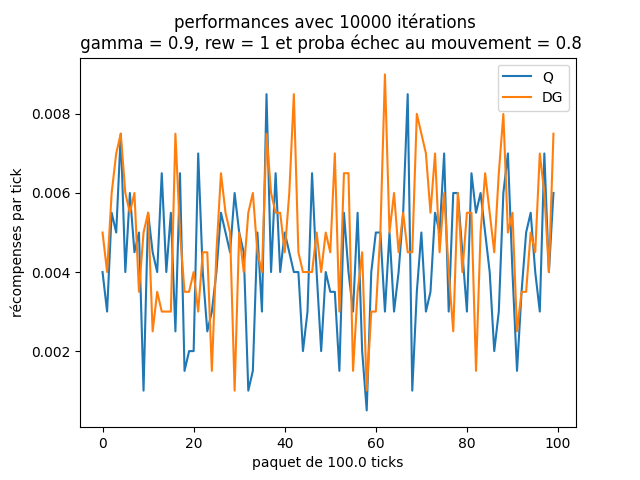
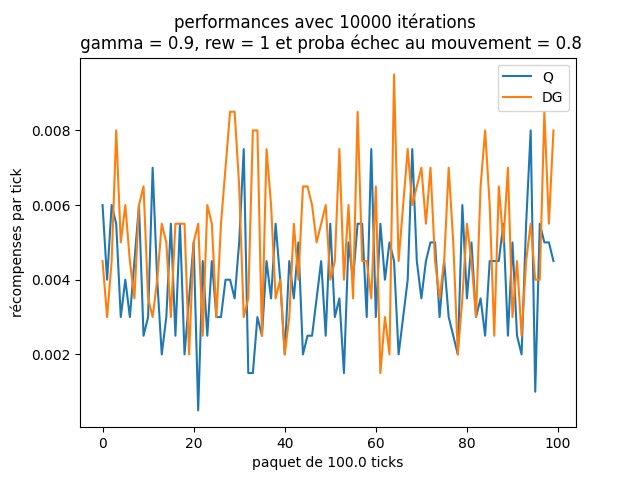
bug de multithreading corrigés

diff --git a/main.py b/main.py
@@ -8,7 +8,7 @@ import dirtyPlot
 import threading
 
 
-sem = threading.Semaphore()
+sem = threading.BoundedSemaphore()
 
 gridSize = [10, 10]
 A = ["haut", "bas", "gauche", "droite"]
@@ -192,10 +192,11 @@ def relaxation() :
       for s2x in range(gridSize[0]):
         for s2y in range(gridSize[1]):
           s2 = (s2x, s2y)
+          sem.acquire()
           for six in range(gridSize[0]):
             for siy in range(gridSize[1]):
               si = (six, siy)
-              sem.acquire
+              #sem.acquire()
               if s1 != s2 and s1!= si and si != s2 :
                 for a in A :
                   #sem.acquire()
@@ -207,14 +208,14 @@ def relaxation() :
                                                            + DGTable.get((si, minDG(si, s2), s2), baseDGValue)
                                                            )
                   """
-                  if(DGTable.get((s1, a, si), baseDGValue) + DGTable.get((si, minDG(si, s2), s2), baseDGValue) < temp) :
-                    #TODO : ça chie ici
-                    print("la relaxation trouve des trucs !")
+                  mem1 = DGTable.get((s1, a, si), baseDGValue) + DGTable.get((si, minDG(si, s2), s2), baseDGValue)
+                  if(mem1 < temp) :
+                    #print("la relaxation trouve des trucs !")
 
-                    print(str(s1) + " " + str(si) + " " +str(s2))
-                    print(str(DGTable.get((s1, a, si), baseDGValue) + DGTable.get((si, minDG(si, s2), s2), baseDGValue)) + "  <   " +  str(temp))
+                    #print(str(s1) + " " + str(si) + " " +str(s2))
+                    #print(str(mem1) + "  <  " + str(temp))
 
-                    DGTable[(s1, a, s2)] = DGTable.get((s1, a, si), baseDGValue)+ DGTable.get((si, minDG(si, s2), s2),baseDGValue)
+                    DGTable[(s1, a, s2)] = mem1
 
 
                   #sem.release()
@@ -223,7 +224,8 @@ def relaxation() :
                   if(not getattr(t, "do_run", True)) :
                     sem.release()
                     return
-              sem.release()
+              #sem.release()
+          sem.release()
 
   #une fois fini, on recommence
   print("fin de relaxation")
@@ -235,7 +237,7 @@ def relaxation() :
 # Main
 #-----------------------------------------------------------------------------------------------------------
 
-def main(method, nbRuns, nbticks, rewVal, agentBouge = False, rewardBouge = False, useAllGoalUpdate = False, useRelaxation= False, show = False):
+def launch(method, nbRuns, nbticks, rewVal, agentBouge = False, rewardBouge = False, useAllGoalUpdate = False, useRelaxation= False, show = False):
   global agentPos
   global rewardPos
   global Qdict
@@ -336,19 +338,18 @@ def main(method, nbRuns, nbticks, rewVal, agentBouge = False, rewardBouge = Fals
 #--------------------------------------
 
 if __name__ == '__main__':
-
   nrun = 20
   nbucket = 100
   nticks = 10000
   rewVal = 1
   #random.seed(1234)
   print("--------------------------- Q -------------------------")
-  #dataQ  = main("Q", nrun, nticks, rewVal, agentBouge=True, rewardBouge=False)
-  dataQ  = main("Q", nrun, nticks, rewVal, agentBouge=True, rewardBouge=True)
+  #dataQ  = launch("Q", nrun, nticks, rewVal, agentBouge=True, rewardBouge=False)
+  dataQ  = launch("Q", nrun, nticks, rewVal, agentBouge=True, rewardBouge=True)
 
   print("--------------------------- DG -------------------------")
-  #dataDG = main("DG", nrun, nticks, rewVal, agentBouge=True, rewardBouge=False, useAllGoalUpdate=False, useRelaxation=False)
-  dataDG = main("DG", nrun, nticks, rewVal, agentBouge=True, rewardBouge=True, useAllGoalUpdate=True, useRelaxation=True) #test de la relaxation
+  #dataDG = launch("DG", nrun, nticks, rewVal, agentBouge=True, rewardBouge=False, useAllGoalUpdate=False, useRelaxation=False)
+  dataDG = launch("DG", nrun, nticks, rewVal, agentBouge=True, rewardBouge=True, useAllGoalUpdate=True, useRelaxation=True) #test de la relaxation
 
   finalQ = []
   finalDG = []
